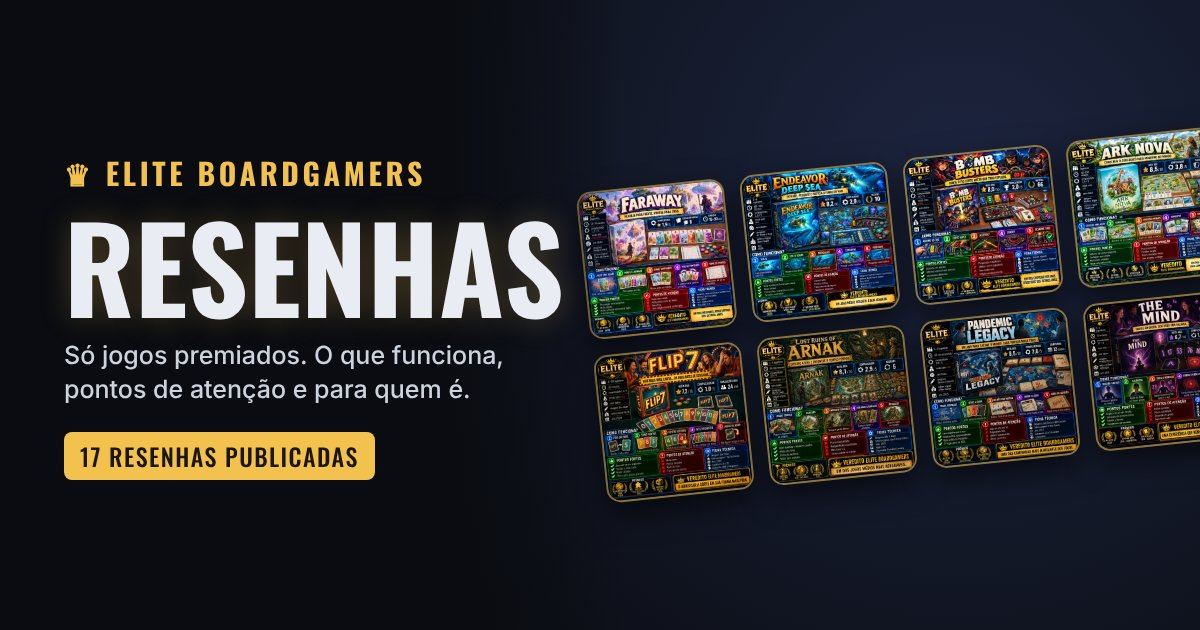
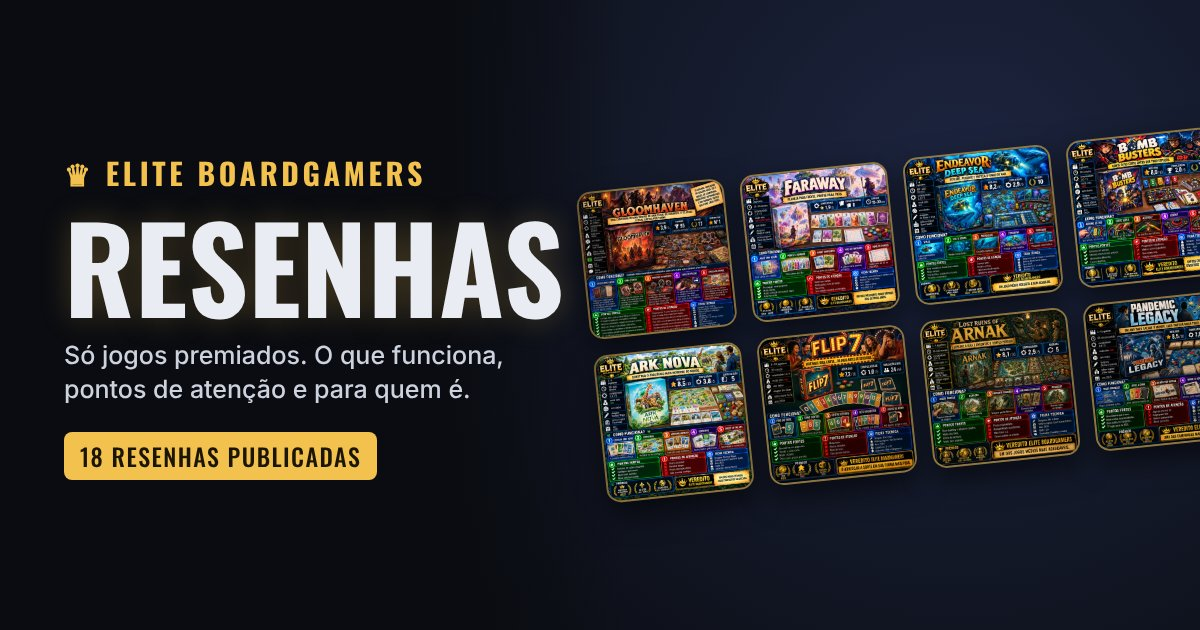
Publica Gloomhaven, primeira resenha no padrão editorial v2 (infográfico 4:5)
Infográfico em webp até ~800 KB para o texto pequeno continuar nítido no Salvar na galeria.

Claude-Session: https://claude.ai/code/session_01MzZSiG5p8AUaHMyB6shk96

Changed region(s): [[0.4625, 0.181, 1.0, 0.7841], [0.0617, 0.6937, 0.3083, 0.754]]

diff --git a/gloomhaven/index.html b/gloomhaven/index.html
@@ -1,0 +1,253 @@
+<!doctype html>
+<html lang="pt-BR">
+<head>
+<meta charset="utf-8">
+<meta name="viewport" content="width=device-width, initial-scale=1">
+<meta http-equiv="Cache-Control" content="no-cache, no-store, must-revalidate">
+<meta http-equiv="Pragma" content="no-cache">
+<meta http-equiv="Expires" content="0">
+<title>Gloomhaven: resenha | Elite Boardgamers</title>
+<meta name="description" content="Resenha de Gloomhaven, vencedor de seis Golden Geek em 2017 incluindo Jogo do Ano: como funciona, pontos fortes, pontos de atenção e para quem é.">
+<meta property="og:title" content="Gloomhaven vale a pena? Resenha Elite Boardgamers">
+<meta property="og:description" content="Resenha de Gloomhaven, vencedor de seis Golden Geek em 2017 incluindo Jogo do Ano: como funciona, pontos fortes, pontos de atenção e para quem é.">
+<meta property="og:type" content="article">
+<meta property="og:url" content="https://meruvash.github.io/Golden-Geek/gloomhaven/">
+<meta property="og:image" content="https://meruvash.github.io/Golden-Geek/gloomhaven/capa.jpg">
+<meta property="og:image:width" content="800">
+<meta property="og:image:height" content="800">
+<meta name="theme-color" content="#000000">
+<link rel="icon" href="../favicon.svg" type="image/svg+xml">
+<link rel="preload" href="../fontes/public-sans.woff2" as="font" type="font/woff2" crossorigin>
+<style>
+@font-face{font-family:"Public Sans";src:url(../fontes/public-sans.woff2) format("woff2");font-weight:400 800;font-style:normal;font-display:swap}
+@font-face{font-family:"Public Sans";src:url(../fontes/public-sans-italic.woff2) format("woff2");font-weight:400;font-style:italic;font-display:swap}
+:root{color-scheme:dark;--bar:#000;--bar-ink:#e9ecf1;--gold:#e3b23c;--ground:#000;--panel:#0f1115;--panel2:#171a20;--ink:#eceff3;--muted:#a1a9b5;--line:#262a32;--link:#8cb8ff;--ok:#157a43;--ok-ink:#5fd18f;--no:#c43a52;--no-ink:#ff8094;--warn:#b06a00;--warn-ink:#ffb547;--n9:#1d7d48;--n7:#2366a8;--n6:#6b4ea3;--n5:#b23a48}
+*{box-sizing:border-box}
+html{-webkit-text-size-adjust:100%;scroll-padding-top:64px}
+body{margin:0;background:var(--ground);color:var(--ink);font:16px/1.6 "Public Sans",system-ui,sans-serif}
+h1,h2,h3,p,ul,dl,dd,figure{margin:0}
+ul{padding:0;list-style:none}
+img{display:block;max-width:100%;height:auto}
+a{color:var(--link);text-underline-offset:.18em}
+::selection{background:#e3b23c;color:#000}
+:focus-visible{outline:3px solid var(--gold);outline-offset:2px;border-radius:3px}
+.skip{position:absolute;left:-999px}.skip:focus{left:12px;top:8px;z-index:9;background:var(--gold);color:#000;padding:6px 10px}
+.bar{background:var(--bar);color:var(--bar-ink);border-bottom:1px solid var(--line)}
+.bar .in{max-width:1120px;margin:0 auto;padding:8px 16px;display:flex;align-items:center;gap:12px}
+.bar a{color:var(--bar-ink);text-decoration:none;font-weight:600;font-size:.95rem}
+.marca{display:flex;align-items:center;gap:10px}.marca img{width:84px;height:auto;border-radius:6px}
+.bar .todas{margin-left:auto;border:1px solid #3a3f48;border-radius:6px;padding:6px 12px}
+.bar .todas:hover{background:#1a1d22;border-color:var(--gold)}
+.jogo{background:var(--panel);border-bottom:1px solid var(--line)}
+.jogo .in{max-width:1120px;margin:0 auto;padding:20px 16px 0;display:grid;gap:20px}
+.capa a{display:block;border-radius:8px;overflow:hidden;box-shadow:0 8px 28px rgba(0,0,0,.6)}
+.capa figcaption{font-size:.82rem;color:var(--muted);margin-top:6px}
+.topo{display:grid;grid-template-columns:1fr auto;gap:4px 16px;align-items:start}
+h1{font-size:clamp(2rem,7vw,3.1rem);line-height:1.05;font-weight:800;letter-spacing:-.02em}
+.linha{grid-column:1;color:var(--muted);font-size:.95rem}
+.nota-box{grid-column:2;grid-row:1/span 2;display:grid;justify-items:center}
+.nota{width:64px;height:72px;display:grid;place-items:center;clip-path:polygon(50% 0,100% 25%,100% 75%,50% 100%,0 75%,0 25%);color:#fff;font-weight:800;font-size:1.45rem;font-variant-numeric:tabular-nums}
+.n9{background:var(--n9)}.n7{background:var(--n7)}.n6{background:var(--n6)}.n5{background:var(--n5)}
+.nota-k{font-size:.72rem;color:var(--muted);margin-top:2px}
+.veredito{display:flex;flex-wrap:wrap;align-items:center;gap:8px 12px;margin-top:14px;padding:12px 14px;border-radius:8px;background:var(--panel2)}
+.selo{font-weight:800;font-size:.9rem;border-radius:999px;padding:3px 12px;color:#fff;background:var(--ok)}
+.selo.publico{background:var(--warn)}.selo.nao{background:var(--no)}
+.veredito p{font-weight:600}
+.lede{margin-top:14px;color:#c9cfd8;max-width:66ch}
+.regua{display:grid;grid-template-columns:repeat(2,1fr);gap:1px;margin-top:16px;border:1px solid var(--line);border-radius:8px;background:var(--line);overflow:hidden}
+.regua li{display:grid;grid-template-columns:auto 1fr;column-gap:8px;padding:10px 12px;align-items:center;background:var(--panel)}
+.ic{width:22px;height:22px;fill:none;stroke:currentColor;stroke-width:1.75;stroke-linecap:round;stroke-linejoin:round}
+.regua .ic{grid-row:span 2;color:var(--muted)}
+.r-v{font-weight:700;font-variant-numeric:tabular-nums;line-height:1.25}.r-k{font-size:.78rem;color:var(--muted)}
+.abas{position:sticky;top:0;z-index:5;background:var(--panel);border-bottom:1px solid var(--line)}
+.abas ul{max-width:1120px;margin:0 auto;padding:0 8px;display:flex;overflow-x:auto;scrollbar-width:none}
+.abas a{display:block;padding:12px 10px;white-space:nowrap;color:var(--ink);text-decoration:none;font-weight:600;font-size:.92rem;border-bottom:3px solid transparent}
+.abas a:hover{border-bottom-color:var(--gold)}
+main{max-width:1120px;margin:0 auto;padding:20px 16px 48px;display:grid;gap:20px}
+.bloco{background:var(--panel);border:1px solid var(--line);border-radius:8px;padding:20px}
+h2{font-size:1.3rem;font-weight:800;letter-spacing:-.01em;margin-bottom:12px}
+.bloco p+p{margin-top:10px}.leitura{max-width:70ch}
+.pc{display:grid;gap:20px}
+.pc li{display:grid;grid-template-columns:auto 1fr;gap:10px;padding:14px 0;border-top:1px solid var(--line)}
+.pc li:first-child{border-top:0;padding-top:0}
+.pc h3{font-size:1rem;font-weight:700}.pc p{color:#c3c9d2;font-size:.95rem}
+.ic.ok{color:var(--ok-ink);margin-top:2px}.ic.no{color:var(--no-ink);margin-top:2px}
+.sev{font-size:.72rem;font-weight:700;border-radius:4px;padding:1px 6px;vertical-align:2px;margin-left:4px;background:var(--panel2);color:var(--muted)}
+.sev.moderada{background:#2a1f0c;color:var(--warn-ink)}.sev.grave{background:#2b1117;color:var(--no-ink)}
+.quem{display:grid;gap:20px}.quem li{margin:6px 0;padding-left:16px;position:relative}.quem li::before{content:"";position:absolute;left:0;top:.65em;width:7px;height:7px;border-radius:50%;background:var(--ok)}
+.quem .nao li::before{background:var(--no)}
+.fecho{background:var(--panel2);color:var(--bar-ink);border:1px solid var(--gold)}
+.fecho .selo{margin-bottom:10px;display:inline-block}.fecho p{max-width:70ch}
+.tagline{font-size:1.25rem;font-weight:800;margin-top:12px;color:#fff}
+.col,aside{display:grid;gap:20px;align-content:start}
+dl div{display:grid;grid-template-columns:42% 1fr;gap:10px;padding:10px 0;border-top:1px solid var(--line);font-size:.93rem}
+dl div:first-child{border-top:0}dt{color:var(--muted)}dd.na{color:var(--muted);font-style:italic}
+.note{font-size:.82rem;color:var(--muted);margin-top:10px}
+.pr{display:grid;grid-template-columns:auto 1fr;gap:10px;align-items:center;padding:11px 0;border-top:1px solid var(--line)}
+.pr:first-child{border-top:0}
+.pr-m{width:30px;height:30px;border-radius:50%;display:grid;place-items:center;border:2px solid var(--muted);color:var(--muted);font-size:.78rem;font-weight:800}
+.pr.win .pr-m{border:0;background:radial-gradient(circle at 35% 30%,#f7d77a,var(--gold) 60%,#b9871d)}
+.pr-t b{display:block;font-size:.93rem}.pr-t span{font-size:.82rem;color:var(--muted)}
+.resumo{font-size:.88rem;color:var(--muted);margin:-6px 0 8px}
+.fontes li{margin:6px 0;font-size:.93rem}.fontes span{color:var(--muted);font-size:.85rem}
+/* blocos de leitura claros sobre a moldura preta */
+.bloco.claro{background:#f4f5f7;color:#14171c;border-color:#f4f5f7}
+.claro p,.claro .pc p{color:#3a414c}
+.claro dt,.claro .resumo,.claro .note,.claro .pr-t span,.claro.fontes span{color:#5a6270}
+.claro dl div,.claro .pr,.claro li{border-color:#dde1e7}
+.claro a{color:#1f5fae}
+.claro .ic.ok{color:#1b7a45}.claro .ic.no{color:#b3263e}
+.claro .sev{background:#e6e9ee;color:#5a6270}.claro .sev.moderada{background:#fdf1dc;color:#8a5200}.claro .sev.grave{background:#fbe4e8;color:#a3223a}
+.claro .pr-m{border-color:#8a929e;color:#5a6270}
+.claro.quem li::before,.claro .quem li::before{background:#1b7a45}.claro .nao li::before{background:#b3263e}
+footer{background:var(--bar);color:var(--bar-ink);font-size:.88rem;border-top:1px solid var(--line)}
+.bar .ig,.bar .zap-mini{display:flex;align-items:center;gap:6px;padding:6px 10px;border-radius:6px}
+.bar .ig{margin-left:auto}.bar .ig:hover{color:var(--gold)}
+.bar .zap-mini{background:#157a43;color:#fff}.bar .zap-mini:hover{background:#11683a}
+.bar .todas{margin-left:0}
+@media (max-width:700px){.bar .ig span,.bar .zap-mini span{display:none}.bar .todas{padding:6px 10px}}
+.zap{display:flex;align-items:center;gap:12px;margin-top:16px;padding:14px 18px;border-radius:10px;background:#157a43;color:#fff;text-decoration:none;transition:background-color .2s ease,transform .2s ease}
+.zap:hover{background:#11683a}.zap:active{transform:scale(.98)}
+.zap .zi{width:30px;height:30px;flex:none}.zap b{display:block;font-size:1.05rem}.zap small{display:block;font-size:.85rem;opacity:.9}
+.comunidade p{max-width:62ch;color:#c9cfd8}.comunidade .acoes{display:flex;flex-wrap:wrap;gap:12px;align-items:center}
+.ig-btn{display:flex;align-items:center;gap:8px;margin-top:16px;padding:14px 18px;border-radius:10px;border:1px solid #3a3f48;color:var(--ink);text-decoration:none;font-weight:700}
+.ig-btn:hover{border-color:var(--gold);color:var(--gold)}
+.post{display:flex;gap:10px;margin-top:12px}
+.post-btn{flex:1 1 auto;white-space:nowrap;display:flex;align-items:center;justify-content:center;gap:7px;min-height:46px;padding:10px 12px;border-radius:10px;border:1px solid #3a3f48;background:var(--panel2);color:var(--ink);font:inherit;font-weight:700;cursor:pointer;touch-action:manipulation;transition:border-color .2s ease,transform .15s ease}
+.post-btn:hover{border-color:var(--gold)}.post-btn:active{transform:scale(.97)}
+.post-st:empty,.leg-st:empty{display:none}.post-st,.leg-st{font-size:.88rem;color:var(--ok-ink);margin-top:8px}
+.legenda{margin-top:12px;padding:12px;border-radius:10px;background:#f4f5f7;color:#14171c}
+.legenda .leg-st{color:#1b7a45;font-weight:700;margin:0 0 8px}
+.legenda textarea{width:100%;border:1px solid #dde1e7;border-radius:8px;padding:10px;font:.92rem/1.5 "Public Sans",system-ui,sans-serif;color:#14171c;background:#fff;resize:vertical}
+.legenda .post-btn{margin-top:8px;width:100%;background:#14171c;color:#fff;border-color:#14171c}
+footer .in{max-width:1120px;margin:0 auto;padding:18px 16px;display:flex;flex-wrap:wrap;gap:10px 20px}
+footer a{color:var(--bar-ink)}
+@media (min-width:860px){
+ .jogo .in{grid-template-columns:minmax(0,420px) 1fr;gap:32px;padding-top:28px;padding-bottom:4px}
+ main{grid-template-columns:minmax(0,1fr) 340px;align-items:start}
+ .pc,.quem{grid-template-columns:1fr 1fr}
+ .regua{grid-template-columns:repeat(auto-fit,minmax(120px,1fr))}
+ aside{position:sticky;top:64px}
+}
+@media (max-width:859px){aside{display:contents}#premios{order:-1}}
+@media (prefers-reduced-motion:reduce){html{scroll-behavior:auto}}
+</style>
+</head>
+<body>
+<a class="skip" href="#conteudo">Pular para o conteúdo</a>
+<header class="bar"><div class="in">
+ <a class="marca" href="../resenhas/"><img src="../marca/elite-boardgamers.webp" width="318" height="254" alt="Elite Boardgamers"></a>
+ <a class="ig" href="https://www.instagram.com/eliteboardgamers/" target="_blank" rel="noopener" aria-label="Instagram @eliteboardgamers"><svg class="ic" viewBox="0 0 24 24" aria-hidden="true"><rect x="3" y="3" width="18" height="18" rx="5"/><circle cx="12" cy="12" r="4"/><circle cx="17.3" cy="6.7" r=".6" fill="currentColor"/></svg><span>@eliteboardgamers</span></a>
+ <a class="zap-mini" href="https://chat.whatsapp.com/IgQQkJdSkzHBaEq3UwFeAo" target="_blank" rel="noopener"><svg class="ic" viewBox="0 0 24 24" aria-hidden="true"><path d="M4 20l1.3-4A8 8 0 1 1 8.4 19l-4.4 1Z"/><path d="M9.2 8.6c.3-.5.8-.5 1-.1l.7 1.5c.1.3 0 .6-.2.8l-.4.4c.5 1.1 1.4 2 2.5 2.5l.4-.4c.2-.2.5-.3.8-.2l1.5.7c.4.2.4.7-.1 1-.7.5-1.6.6-2.4.3a7 7 0 0 1-4.2-4.2c-.3-.8-.2-1.7.4-2.3Z"/></svg><span>Grupo do WhatsApp</span></a>
+ <a class="todas" href="../resenhas/">Todas as resenhas</a>
+</div></header>
+
+<section class="jogo"><div class="in">
+ <figure class="capa">
+  <a href="infografico.webp" target="_blank" rel="noopener"><img src="infografico.webp" width="1600" height="2000" alt="Infográfico Elite Boardgamers sobre o jogo Gloomhaven" fetchpriority="high"></a>
+  <figcaption>Toque para ver o infográfico em tamanho cheio.</figcaption>
+  <div class="post"><button type="button" class="post-btn" id="b-salvar"><svg class="ic" viewBox="0 0 24 24" aria-hidden="true"><rect x="3" y="3" width="18" height="18" rx="3"/><circle cx="9" cy="9" r="1.8"/><path d="M21 15.5l-5-5L5 21"/></svg>Salvar na galeria</button><button type="button" class="post-btn" id="b-legenda" aria-expanded="false" aria-controls="legenda"><svg class="ic" viewBox="0 0 24 24" aria-hidden="true"><rect x="9" y="9" width="11" height="11" rx="2"/><path d="M5 15V6a2 2 0 0 1 2-2h8"/></svg>Legenda</button></div>
+  <p class="post-st" id="salvar-st" role="status"></p>
+  <div class="legenda" id="legenda" hidden><p class="leg-st" role="status"></p><textarea readonly rows="9" aria-label="Legenda para o Instagram">Uma campanha inteira dentro de uma caixa: 95 cenários, 17 classes e duas cartas por turno. ⚔
+
+Gloomhaven venceu o Golden Geek 2017 de Jogo do Ano, além de Cooperativo e Solo, e foi finalista do As d&#x27;Or Expert 2020.
+Os monstros agem sozinhos, cada carta é ação e fôlego, e os heróis evoluem até se aposentar.
+A caixa de 9 kg, a preparação demorada e o preço acima de R$ 1.100 pesam, mas para quem ama combate tático é referência.
+Veredito: RECOMENDADO PARA PÚBLICO ESPECÍFICO.
+
+Você encararia uma campanha de 95 cenários?
+Resenha completa no link da bio.
+
+#Gloomhaven #JogosDeTabuleiro #BoardGames #Boardgamer #Cooperativo #JogoSolo #DungeonCrawler #GoldenGeek #Galapagos #EliteBoardgamers</textarea><button type="button" class="post-btn" id="b-copiar"><svg class="ic" viewBox="0 0 24 24" aria-hidden="true"><rect x="9" y="9" width="11" height="11" rx="2"/><path d="M5 15V6a2 2 0 0 1 2-2h8"/></svg>Copiar de novo</button></div>
+ </figure>
+ <div>
+  <div class="topo">
+   <h1>Gloomhaven</h1>
+   <div class="nota-box"></div>
+   <p class="linha">2017 · Isaac Childres</p>
+  </div>
+  <div class="veredito"><span class="selo publico">Recomendado para público específico</span><p>Uma campanha inteira dentro de uma caixa.</p></div>
+  <ul class="regua"><li><svg class="ic" viewBox="0 0 24 24" aria-hidden="true"><path d="M8 11a3.5 3.5 0 1 0 0-7 3.5 3.5 0 0 0 0 7Zm8 1a3 3 0 1 0 0-6M2 20c0-3.3 2.7-6 6-6s6 2.7 6 6M15.5 14.2c3 .4 5.5 2.8 5.5 5.8"/></svg><span class="r-v">1–4</span><span class="r-k">Jogadores</span></li><li><svg class="ic" viewBox="0 0 24 24" aria-hidden="true"><circle cx="12" cy="12" r="9"/><path d="M12 7v5l3.5 2"/></svg><span class="r-v">90–115 min por cenário</span><span class="r-k">Duração</span></li><li><svg class="ic" viewBox="0 0 24 24" aria-hidden="true"><path d="M12 21a9 9 0 1 1 0-18 9 9 0 0 1 0 18Z"/><path d="M9 10h.01M15 10h.01M8.5 14.5c1.9 2 5.1 2 7 0"/></svg><span class="r-v">14+</span><span class="r-k">Idade</span></li><li><svg class="ic" viewBox="0 0 24 24" aria-hidden="true"><path d="M6 9h12l2 11H4L6 9Z"/><path d="M9 9a3 3 0 1 1 6 0"/></svg><span class="r-v">3,9 / 5</span><span class="r-k">Peso BGG</span></li></ul>
+  <a class="zap" href="https://chat.whatsapp.com/IgQQkJdSkzHBaEq3UwFeAo" target="_blank" rel="noopener"><svg class="ic zi" viewBox="0 0 24 24" aria-hidden="true"><path d="M4 20l1.3-4A8 8 0 1 1 8.4 19l-4.4 1Z"/><path d="M9.2 8.6c.3-.5.8-.5 1-.1l.7 1.5c.1.3 0 .6-.2.8l-.4.4c.5 1.1 1.4 2 2.5 2.5l.4-.4c.2-.2.5-.3.8-.2l1.5.7c.4.2.4.7-.1 1-.7.5-1.6.6-2.4.3a7 7 0 0 1-4.2-4.2c-.3-.8-.2-1.7.4-2.3Z"/></svg><span><b>Entre no grupo do WhatsApp</b><small>Converse sobre Gloomhaven e receba as próximas resenhas</small></span></a>
+  <p class="lede">Gloomhaven é um jogo cooperativo de masmorras com campanha de 95 cenários, em que cada personagem joga duas cartas por turno e evolui ao longo da história. Venceu seis Golden Geek em 2017, incluindo Jogo do Ano, e foi finalista do As d&#x27;Or Expert 2020.</p>
+ </div>
+</div>
+<nav class="abas" aria-label="Seções da resenha"><ul>
+ <li><a href="#como-funciona">Como funciona</a></li><li><a href="#pros-contras">Prós e contras</a></li><li><a href="#para-quem">Para quem é</a></li><li><a href="#veredito">Veredito</a></li><li><a href="#ficha">Ficha</a></li><li><a href="#premios">Prêmios</a></li><li><a href="#fontes">Fontes</a></li>
+</ul></nav>
+</section>
+
+<main id="conteudo">
+ <div class="col">
+  <section class="bloco claro" id="como-funciona"><h2>Como funciona</h2><div class="leitura"><p>Cada jogador controla um aventureiro com um baralho próprio de habilidades. Os personagens e os monstros se movem num mapa de hexágonos que representa masmorras e porões.</p><p>Em cada turno, todos escolhem duas cartas ao mesmo tempo e usam a metade de cima de uma e a de baixo da outra. As cartas também medem o fôlego: quando acabam, o personagem fica exausto.</p><p>Os cenários formam uma campanha com história ramificada; entre eles, os personagens compram itens, sobem de nível e, ao cumprir objetivos pessoais, se aposentam e liberam novas classes.</p></div></section>
+  <section class="bloco claro pc" id="pros-contras">
+   <div><h2>O que funciona muito bem</h2><ul><li><svg class="ic ok" viewBox="0 0 24 24" aria-hidden="true"><path d="M4.5 12.5l4.5 4.5L19.5 6.5"/></svg><div><h3>Combate tático excelente</h3><p>O sistema de duas cartas por turno cria escolhas difíceis a cada rodada; a Tabletop Gaming chama o jogo de um RPG numa caixa.</p></div></li><li><svg class="ic ok" viewBox="0 0 24 24" aria-hidden="true"><path d="M4.5 12.5l4.5 4.5L19.5 6.5"/></svg><div><h3>Campanha enorme</h3><p>São 95 cenários e classes a desbloquear, conteúdo para meses.</p></div></li><li><svg class="ic ok" viewBox="0 0 24 24" aria-hidden="true"><path d="M4.5 12.5l4.5 4.5L19.5 6.5"/></svg><div><h3>Ótimo sozinho</h3><p>O jogo é cooperativo de 1 a 4 e uma resenha do BGG avalia o solo como muito bom.</p></div></li><li><svg class="ic ok" viewBox="0 0 24 24" aria-hidden="true"><path d="M4.5 12.5l4.5 4.5L19.5 6.5"/></svg><div><h3>Reconhecimento raro</h3><p>Foi o 1º lugar geral do BoardGameGeek por cerca de cinco anos, segundo a Kotaku.</p></div></li></ul></div>
+   <div><h2>Pontos de atenção</h2><ul><li><svg class="ic no" viewBox="0 0 24 24" aria-hidden="true"><path d="M6 6l12 12M18 6L6 18"/></svg><div><h3>Preparação demorada <span class="sev moderada">Moderada</span></h3><p>A Hexagamers cita 15 a 20 minutos de preparação antes de jogar; organizadores ajudam, segundo a Giant Brain.</p></div></li><li><svg class="ic no" viewBox="0 0 24 24" aria-hidden="true"><path d="M6 6l12 12M18 6L6 18"/></svg><div><h3>Caixa enorme <span class="sev moderada">Moderada</span></h3><p>A mesma fonte fala em caixa de cerca de 9 kg e muito espaço na estante e na mesa.</p></div></li><li><svg class="ic no" viewBox="0 0 24 24" aria-hidden="true"><path d="M6 6l12 12M18 6L6 18"/></svg><div><h3>História comum <span class="sev leve">Leve</span></h3><p>A Tabletop Gaming acha a escrita familiar e a história pouco marcante.</p></div></li><li><svg class="ic no" viewBox="0 0 24 24" aria-hidden="true"><path d="M6 6l12 12M18 6L6 18"/></svg><div><h3>Exige compromisso <span class="sev moderada">Moderada</span></h3><p>A campanha pede um grupo fixo e muitas sessões.</p></div></li></ul></div>
+  </section>
+  <section class="bloco claro quem" id="para-quem">
+   <div><h2>É para você se…</h2><ul><li>Gosta de RPG e combate tático</li><li>Tem um grupo fixo ou joga sozinho</li><li>Quer um jogo para meses</li></ul></div>
+   <div class="nao"><h2>Pense duas vezes se…</h2><ul><li>Quer abrir a caixa e jogar em minutos</li><li>Tem pouco espaço</li><li>Busca uma história marcante</li></ul></div>
+  </section>
+  <section class="bloco fecho" id="veredito">
+   <h2>Veredito Elite Boardgamers</h2>
+   <span class="selo publico">Recomendado para público específico</span>
+   <p>Gloomhaven entrega o combate tático cooperativo mais rico dos jogos de tabuleiro e uma campanha para meses. A preparação, o tamanho da caixa e o compromisso exigido pesam, mas para quem ama o gênero é uma referência.</p>
+   <p class="tagline">Uma campanha inteira dentro de uma caixa.</p>
+  </section>
+  <section class="bloco comunidade"><h2>Gostou da resenha?</h2><p>A Elite Boardgamers publica resenhas de jogos premiados todos os dias. Entre no grupo para conversar sobre jogos e siga no Instagram.</p><div class="acoes"><a class="zap" href="https://chat.whatsapp.com/IgQQkJdSkzHBaEq3UwFeAo" target="_blank" rel="noopener"><svg class="ic zi" viewBox="0 0 24 24" aria-hidden="true"><path d="M4 20l1.3-4A8 8 0 1 1 8.4 19l-4.4 1Z"/><path d="M9.2 8.6c.3-.5.8-.5 1-.1l.7 1.5c.1.3 0 .6-.2.8l-.4.4c.5 1.1 1.4 2 2.5 2.5l.4-.4c.2-.2.5-.3.8-.2l1.5.7c.4.2.4.7-.1 1-.7.5-1.6.6-2.4.3a7 7 0 0 1-4.2-4.2c-.3-.8-.2-1.7.4-2.3Z"/></svg><span><b>Entrar no grupo do WhatsApp</b></span></a><a class="ig-btn" href="https://www.instagram.com/eliteboardgamers/" target="_blank" rel="noopener"><svg class="ic" viewBox="0 0 24 24" aria-hidden="true"><rect x="3" y="3" width="18" height="18" rx="5"/><circle cx="12" cy="12" r="4"/><circle cx="17.3" cy="6.7" r=".6" fill="currentColor"/></svg><span>Seguir @eliteboardgamers</span></a></div></section>
+  <section class="bloco claro fontes" id="fontes"><h2>Fontes</h2><ul><li><a href="https://cephalofair.com/products/gloomhaven-board-game-2nd-edition" target="_blank" rel="noopener">Cephalofair – Gloomhaven</a> <span>página da editora</span></li><li><a href="https://en.wikipedia.org/wiki/Gloomhaven" target="_blank" rel="noopener">Wikipedia – Gloomhaven</a> <span>designer, editora, regras, cenários</span></li><li><a href="https://kotaku.com/gloomhaven-brass-birmingham-bgg-rating-review-charts-1850142919" target="_blank" rel="noopener">Kotaku – Gloomhaven perde o 1º lugar no BGG</a> <span>ranking</span></li><li><a href="https://opinionatedgamers.com/2020/11/28/gloomhaven-does-it-live-up-to-the-hype-review-by-rj-garrison/" target="_blank" rel="noopener">Opinionated Gamers – Gloomhaven</a> <span>peso, solo</span></li><li><a href="https://hexagamers.com/is-gloomhaven-worth-it/" target="_blank" rel="noopener">Hexagamers – Is Gloomhaven worth it</a> <span>preparação, caixa</span></li><li><a href="https://www.tabletopgaming.co.uk/reviews/gloomhaven-review/" target="_blank" rel="noopener">Tabletop Gaming – Gloomhaven</a> <span>crítica</span></li><li><a href="https://giantbrain.co.uk/2018/02/02/the-gloomhaven-diaries-organisation/" target="_blank" rel="noopener">The Giant Brain – Gloomhaven diaries</a> <span>organização</span></li><li><a href="https://brecholudico.com.br/produto/gloomhaven/" target="_blank" rel="noopener">Brechó Lúdico – Gloomhaven (Galápagos)</a> <span>componentes da edição nacional, peso da caixa</span></li><li><a href="https://portalrpgejogos.com.br/produto/gloomhaven-board-game-ed-galapagos/" target="_blank" rel="noopener">Portal RPG e Jogos – Gloomhaven (Galápagos)</a> <span>edição em português, preço de referência</span></li><li><a href="https://www.magazineluiza.com.br/gloomhaven-board-game-galapagos-galapagos/p/af327976gh/br/jogo/" target="_blank" rel="noopener">Magazine Luiza – Gloomhaven (Galápagos)</a> <span>preço de referência</span></li><li><a href="https://ludopedia.com.br/jogo/gloomhaven" target="_blank" rel="noopener">Ludopedia – Gloomhaven</a> <span>dependência de idioma</span></li><li><a href="https://gamerules.com/rules/gloomhaven/" target="_blank" rel="noopener">Game Rules – Gloomhaven</a> <span>idade, componentes</span></li><li><a href="https://www.pcgamer.com/uk/gloomhaven-the-digital-version-of-the-acclaimed-board-game-leaves-early-access-on-october-20/" target="_blank" rel="noopener">PC Gamer – Gloomhaven sai do acesso antecipado</a> <span>versão digital para PC</span></li><li><a href="https://cephalofair.com/blogs/blog/the-hit-tactical-rpg-gloomhaven-launches-september-18-on-playstation-xbox-nintendo-switch" target="_blank" rel="noopener">Cephalofair – Gloomhaven nos consoles</a> <span>versão para consoles, cooperativo online</span></li><li><a href="https://ludopedia.com.br/topico/69885/analise-gloomhaven-presas-do-leao" target="_blank" rel="noopener">Ludopedia – Análise Gloomhaven: Presas do Leão</a> <span>Presas do Leão pela Galápagos</span></li></ul><p class="note">Consulta às fontes em 27/10/2026.</p></section>
+ </div>
+ <aside>
+  <section class="bloco claro" id="premios"><h2>Prêmios</h2><p class="resumo">6 vitórias em 7 premiações da pauta</p><ul><li class="pr"><span class="pr-m" aria-hidden="true"></span><span class="pr-t"><b>As d&#x27;Or 2020</b><span>Jeu de l’Année Expert · Finalista</span></span></li><li class="pr win"><span class="pr-m" aria-hidden="true"></span><span class="pr-t"><b>Golden Geek 2017</b><span>Jogo do Ano · Vencedor</span></span></li><li class="pr win"><span class="pr-m" aria-hidden="true"></span><span class="pr-t"><b>Golden Geek 2017</b><span>Cooperativo · Vencedor</span></span></li><li class="pr win"><span class="pr-m" aria-hidden="true"></span><span class="pr-t"><b>Golden Geek 2017</b><span>Inovação · Vencedor</span></span></li><li class="pr win"><span class="pr-m" aria-hidden="true"></span><span class="pr-t"><b>Golden Geek 2017</b><span>Solo · Vencedor</span></span></li><li class="pr win"><span class="pr-m" aria-hidden="true"></span><span class="pr-t"><b>Golden Geek 2017</b><span>Estratégia · Vencedor</span></span></li><li class="pr win"><span class="pr-m" aria-hidden="true"></span><span class="pr-t"><b>Golden Geek 2017</b><span>Temático · Vencedor</span></span></li></ul></section>
+  <section class="bloco claro" id="ficha"><h2>Ficha técnica</h2><dl><div><dt>Ano</dt><dd>2017</dd></div><div><dt>Designer</dt><dd>Isaac Childres</dd></div><div><dt>Editora original</dt><dd>Cephalofair Games</dd></div><div><dt>Editora no Brasil</dt><dd>Galápagos (edição em português)</dd></div><div><dt>Jogadores</dt><dd>1 a 4</dd></div><div><dt>Duração anunciada</dt><dd>90 a 115 minutos por cenário</dd></div><div><dt>Idade</dt><dd>14+</dd></div><div><dt>Nota BGG</dt><dd class=na>não confirmado nas fontes consultadas (foi o 1º lugar geral do BGG de 2017 até ser superado por Brass: Birmingham)</dd></div><div><dt>Peso BGG</dt><dd>3,9 / 5</dd></div><div><dt>Nota Ludopedia</dt><dd class=na>não confirmado nas fontes consultadas</dd></div><div><dt>Modo solo oficial</dt><dd>Sim</dd></div><div><dt>Componentes</dt><dd>18 miniaturas, 504 cartas de habilidade, 457 cartas de modificador de ataque, 253 cartas de item, 30 peças de mapa</dd></div><div><dt>Peso da caixa</dt><dd>cerca de 9 kg</dd></div><div><dt>Conteúdo</dt><dd>95 cenários e classes a desbloquear</dd></div></dl><p class="note">A nota atual do BGG varia entre as fontes e foi omitida; o peso vem de resenha que cita o BGG.</p></section>
+ </aside>
+</main>
+
+<footer><div class="in">
+ <span>Elite Boardgamers</span>
+ <a href="../resenhas/">Todas as resenhas</a>
+ <a href="../">Consulta Golden Geek</a>
+ <a href="https://www.instagram.com/eliteboardgamers/" target="_blank" rel="noopener">Instagram @eliteboardgamers</a>
+ <a href="https://chat.whatsapp.com/IgQQkJdSkzHBaEq3UwFeAo" target="_blank" rel="noopener">Grupo do WhatsApp</a>
+</div></footer>
+<script>
+(() => {
+  const img = document.querySelector(".capa img"), st = document.getElementById("salvar-st"), nome = "gloomhaven-elite-boardgamers.jpg";
+  let arquivo = null;
+  // Prepara o JPEG antes do toque: o compartilhamento precisa acontecer logo no clique.
+  const preparar = () => {
+    if (arquivo || !img.naturalWidth) return;
+    const cv = document.createElement("canvas");
+    cv.width = img.naturalWidth; cv.height = img.naturalHeight;
+    cv.getContext("2d").drawImage(img, 0, 0);
+    cv.toBlob(b => { if (b) arquivo = new File([b], nome, { type: "image/jpeg" }); }, "image/jpeg", 0.92);
+  };
+  img.complete ? preparar() : img.addEventListener("load", preparar);
+  document.getElementById("b-salvar").addEventListener("click", async () => {
+    preparar();
+    if (!arquivo) { st.textContent = "A imagem ainda está carregando. Tente de novo em um instante."; return; }
+    if (navigator.canShare && navigator.canShare({ files: [arquivo] })) {
+      try { await navigator.share({ files: [arquivo] }); st.textContent = "No menu, escolha “Salvar imagem” para mandar para a galeria."; }
+      catch (e) { if (e.name !== "AbortError") st.textContent = "Não deu para abrir o menu. Toque e segure na imagem e escolha “Salvar imagem”."; }
+    } else {
+      const a = document.createElement("a");
+      a.href = URL.createObjectURL(arquivo); a.download = nome; a.click();
+      setTimeout(() => URL.revokeObjectURL(a.href), 4000);
+      st.textContent = "Imagem salva.";
+    }
+  });
+  const caixa = document.getElementById("legenda");
+  if (!caixa) return;
+  const texto = caixa.querySelector("textarea"), lst = caixa.querySelector(".leg-st"), btn = document.getElementById("b-legenda");
+  const copiar = async () => {
+    let ok = false;
+    try { await navigator.clipboard.writeText(texto.value); ok = true; }
+    catch { texto.select(); ok = document.execCommand("copy"); }
+    lst.textContent = ok ? "Legenda copiada! É só colar no Instagram." : "Selecione o texto abaixo e copie.";
+  };
+  btn.addEventListener("click", () => { caixa.hidden = false; btn.setAttribute("aria-expanded", "true"); copiar(); });
+  document.getElementById("b-copiar").addEventListener("click", copiar);
+})();
+</script>
+</body>
+</html>

diff --git a/resenhas/index.html b/resenhas/index.html
@@ -73,10 +73,19 @@ footer .in{display:flex;flex-wrap:wrap;gap:10px 20px;padding-top:18px;padding-bo
 <main class="in">
  <section class="topo">
   <h1>Resenhas de jogos premiados</h1>
-  <p class="lede">17 resenhas com fontes: como funciona, o que funciona, pontos de atenção e para quem é cada jogo. Só entram jogos premiados no Golden Geek, Spiel des Jahres, Kennerspiel, As d'Or e Deutscher Spiele Preis.</p>
+  <p class="lede">18 resenhas com fontes: como funciona, o que funciona, pontos de atenção e para quem é cada jogo. Só entram jogos premiados no Golden Geek, Spiel des Jahres, Kennerspiel, As d'Or e Deutscher Spiele Preis.</p>
   <a class="zap" href="https://chat.whatsapp.com/IgQQkJdSkzHBaEq3UwFeAo" target="_blank" rel="noopener"><svg class="ic" viewBox="0 0 24 24" aria-hidden="true"><path d="M4 20l1.3-4A8 8 0 1 1 8.4 19l-4.4 1Z"/><path d="M9.2 8.6c.3-.5.8-.5 1-.1l.7 1.5c.1.3 0 .6-.2.8l-.4.4c.5 1.1 1.4 2 2.5 2.5l.4-.4c.2-.2.5-.3.8-.2l1.5.7c.4.2.4.7-.1 1-.7.5-1.6.6-2.4.3a7 7 0 0 1-4.2-4.2c-.3-.8-.2-1.7.4-2.3Z"/></svg><span><b>Entre no grupo do WhatsApp</b><small>Receba as novas resenhas e converse sobre jogos</small></span></a>
  </section>
  <ul class="grid">
+  <li><a class="card" href="../gloomhaven/">
+   <span class="capa"><img src="../gloomhaven/capa.jpg" width="800" height="800" alt="Infográfico Elite Boardgamers sobre o jogo Gloomhaven" loading="lazy"></span>
+   <span class="corpo">
+    <span class="selo publico">Recomendado para público específico</span>
+    <h2>Gloomhaven vale a pena?</h2>
+    <span class="tag">Uma campanha inteira dentro de uma caixa.</span>
+    <span class="vit">6 vitórias em prêmios</span>
+   </span>
+  </a></li>
   <li><a class="card" href="../faraway/">
    <span class="capa"><img src="../faraway/capa.jpg" width="800" height="800" alt="Infográfico Elite Boardgamers sobre o jogo Faraway" loading="lazy"></span>
    <span class="corpo">

diff --git a/tools/salvar_imagem.py b/tools/salvar_imagem.py
@@ -1,7 +1,7 @@
 """Converte a variação aprovada em infografico.webp e capa.jpg e apaga as variações.
 
 Uso: python3 tools/salvar_imagem.py <slug> [variacao]   (padrão: variacao-1.png)
-infografico.webp: 1600 px de largura, proporção original, até ~450 KB.
+infografico.webp: 1600 px de largura, proporção original, até ~800 KB (o botão Salvar na galeria parte dela, então o texto pequeno precisa continuar nítido).
 capa.jpg: 800×800 para o og:image e a lista, recortada do topo (título, caixa e números).
 """
 import sys
@@ -17,9 +17,9 @@ def salvar(slug, variacao="variacao-1.png"):
     im = Image.open(pasta / variacao).convert("RGB")
     w, h = im.size
     alto = round(1600 * h / w)
-    for q in range(88, 55, -4):
+    for q in range(88, 67, -4):
         im.resize((1600, alto), Image.LANCZOS).save(pasta / "infografico.webp", quality=q, method=6)
-        if (pasta / "infografico.webp").stat().st_size <= 450_000:
+        if (pasta / "infografico.webp").stat().st_size <= 800_000:
             break
     capa = im.crop((0, 0, w, w)) if h > w else im
     for q in range(85, 55, -5):
